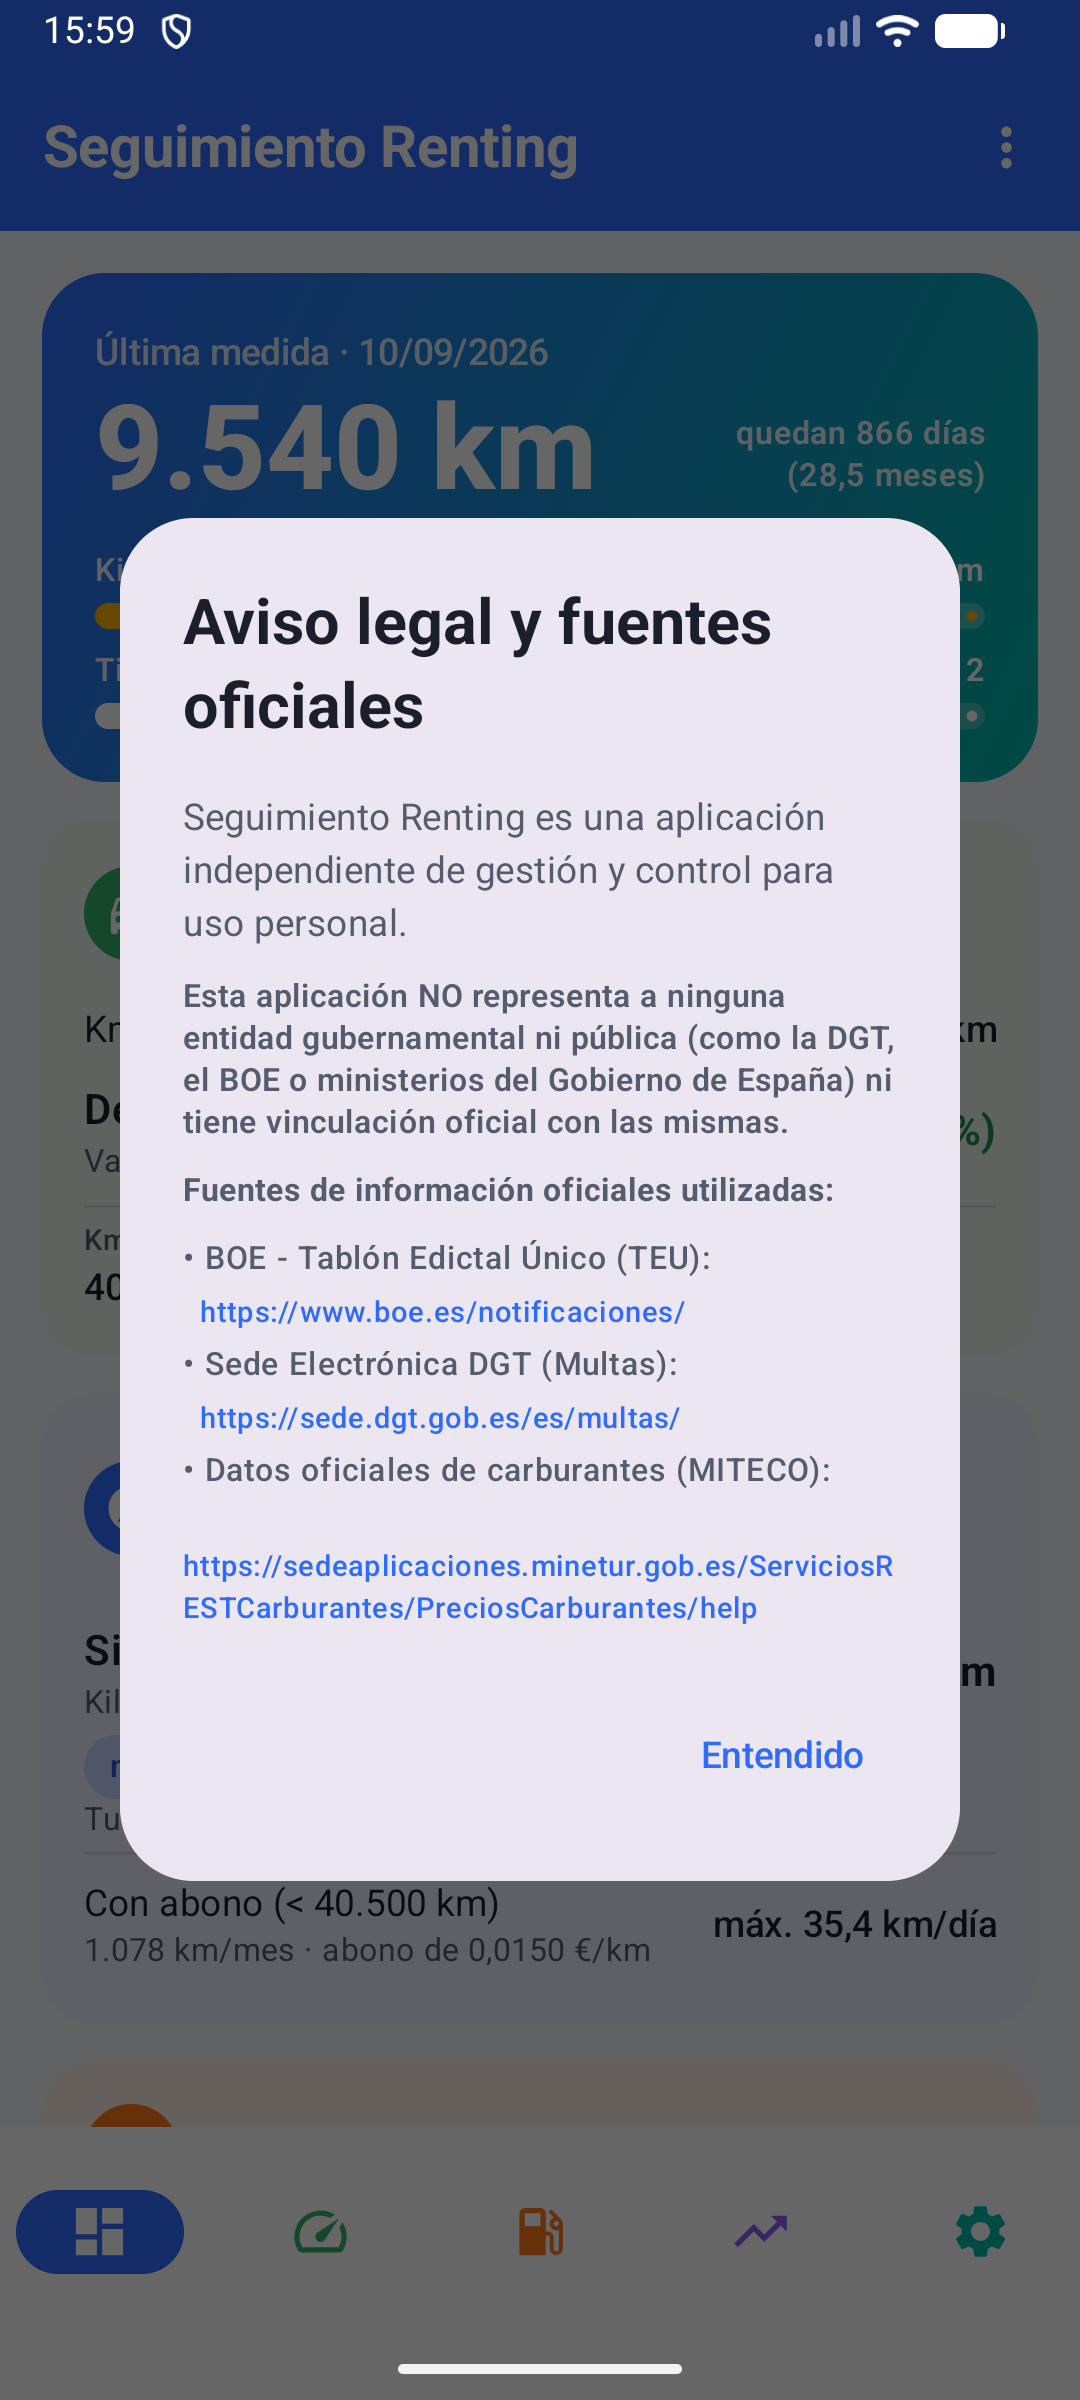
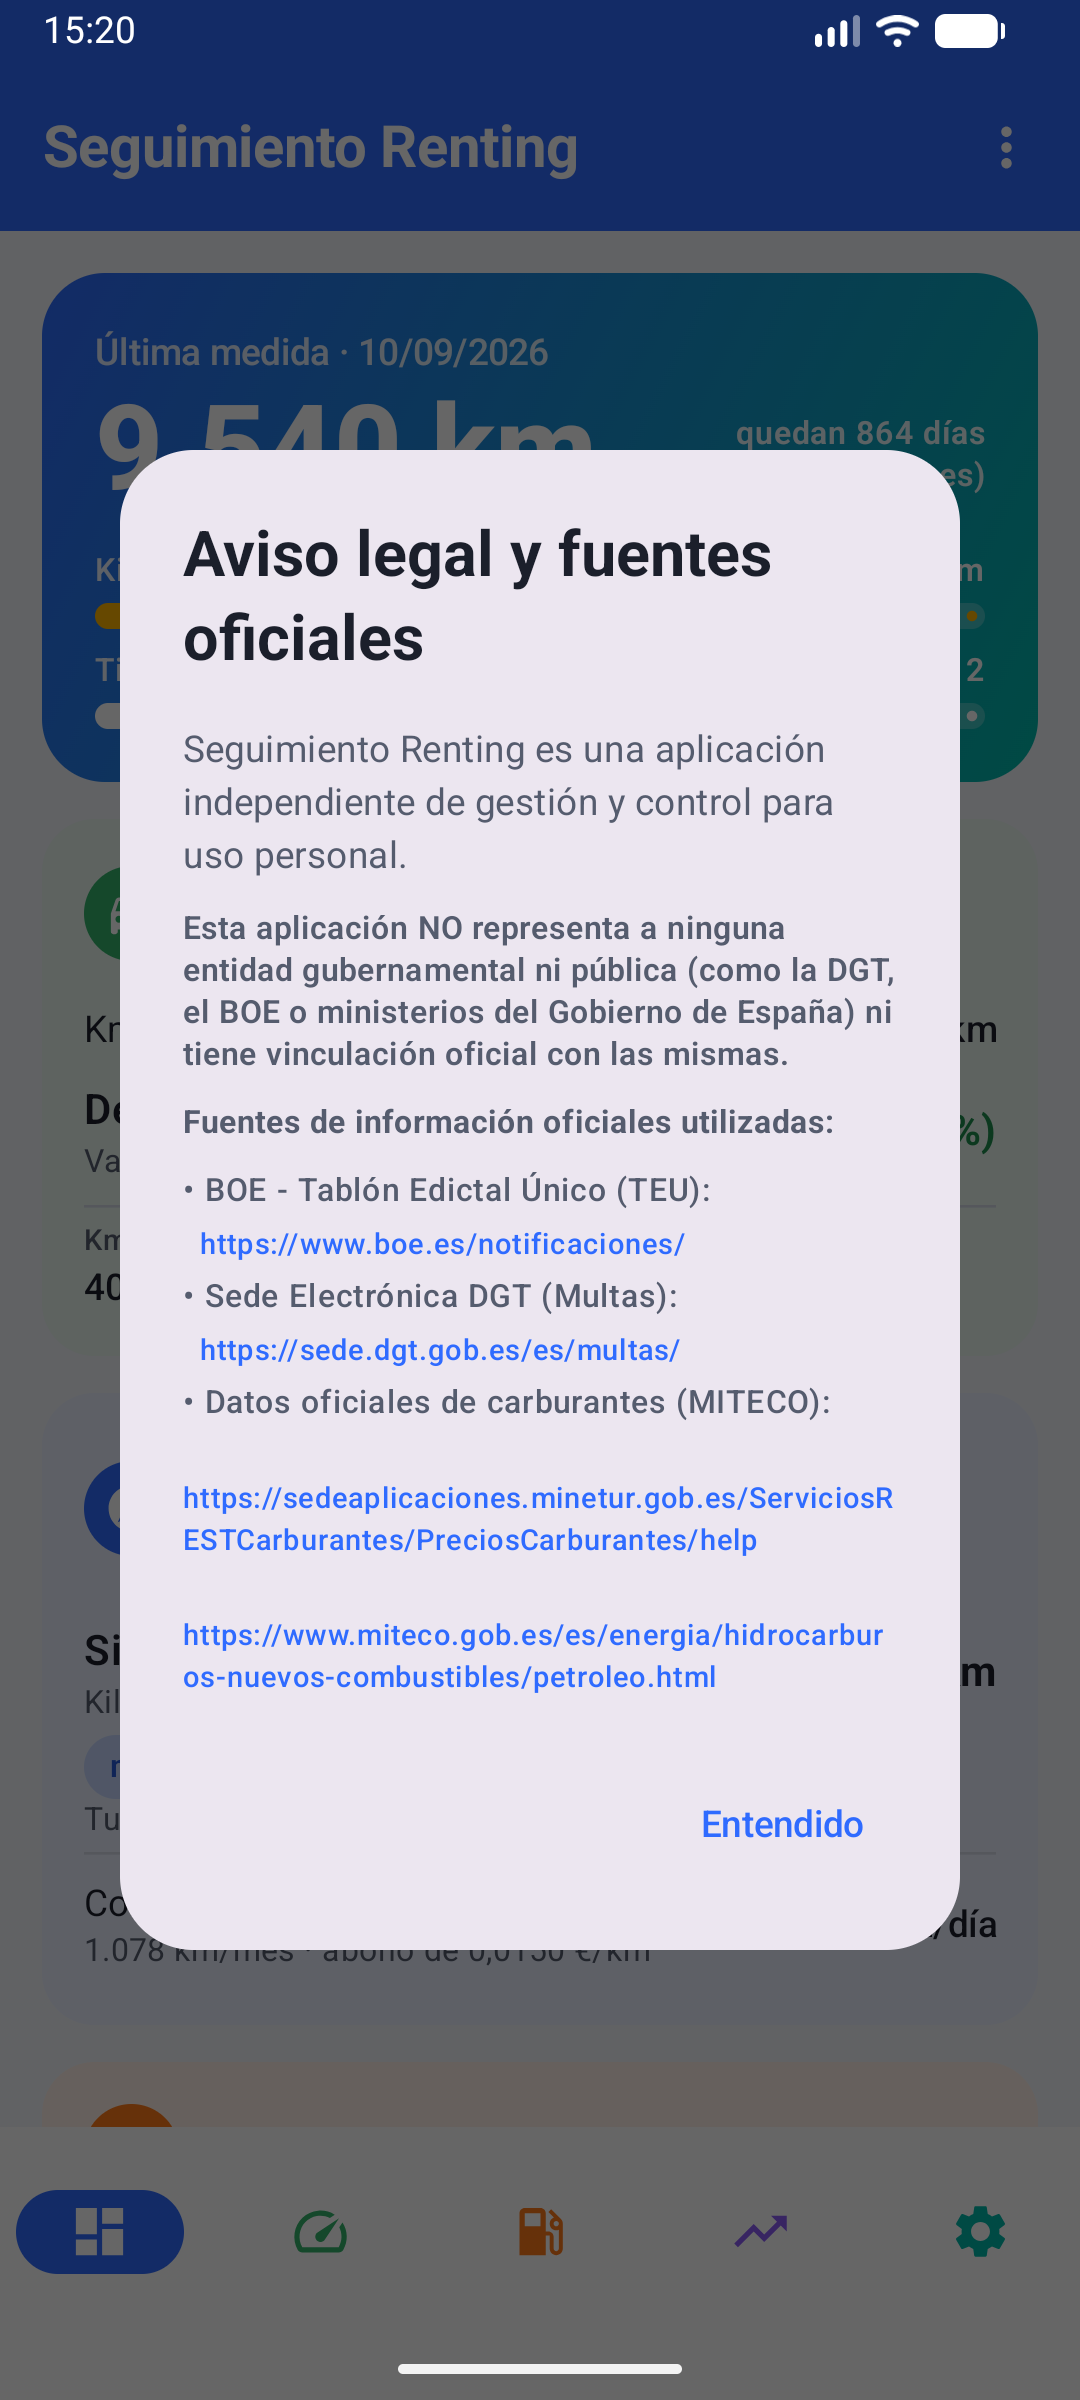
Versión 1.2.4: manual y capturas actualizados; el manual lee la versión del build.gradle.kts

diff --git a/docs/index.html b/docs/index.html
@@ -76,7 +76,7 @@
         </a>
         <a class="btn pdf" href="https://github.com/manursan2026/seguimiento-renting/releases/latest/download/Manual_Seguimiento_Renting.pdf" download>
           <svg viewBox="0 0 24 24" fill="currentColor"><path d="M14 2H6a2 2 0 0 0-2 2v16a2 2 0 0 0 2 2h12a2 2 0 0 0 2-2V8l-6-6zm-1 7V3.5L18.5 9H13zM8 13h8v2H8v-2zm0 4h8v2H8v-2z"/></svg>
-          <span>Manual de usuario<small>PDF · 4.3 MB</small></span>
+          <span>Manual de usuario<small>PDF · 4.4 MB</small></span>
         </a>
       </div>
     </div>
@@ -152,7 +152,7 @@
     </div>
     <div class="card">
       <h3><i style="background:var(--azul)">📘</i>Manual de usuario</h3>
-      <p>Guía completa con capturas de todas las pantallas · PDF · 4.3 MB</p>
+      <p>Guía completa con capturas de todas las pantallas · PDF · 4.4 MB</p>
       <a class="btn pdf" href="https://github.com/manursan2026/seguimiento-renting/releases/latest/download/Manual_Seguimiento_Renting.pdf" download>Descargar manual (PDF)</a>
     </div>
   </div>

diff --git a/docs_manual.py b/docs_manual.py
@@ -15,6 +15,9 @@ from PIL import Image as PILImage
 
 S = os.path.dirname(os.path.abspath(__file__))
 M = os.path.join(S, "manual")
+# Versión de la app, leída del build.gradle.kts
+import re
+VERSION = re.search(r'versionName = "([^"]+)"', open(os.path.join(S, "app", "build.gradle.kts")).read()).group(1)
 OUT = "/Users/manursan/Documents/PERSONALES/RENTING_PEUGEOT/Manual_Seguimiento_Renting.pdf"
 
 F = "/System/Library/Fonts/Supplemental/"
@@ -118,7 +121,7 @@ class Doc(BaseDocTemplate):
         canv.line(doc.leftMargin, A4[1] - 1.5*cm, A4[0] - doc.rightMargin, A4[1] - 1.5*cm)
         canv.setFont("Arial", 8); canv.setFillColor(GRIS)
         canv.drawString(doc.leftMargin, A4[1] - 1.35*cm, "Seguimiento Renting · Manual de usuario")
-        canv.drawRightString(A4[0] - doc.rightMargin, A4[1] - 1.35*cm, "Versión 1.2.3 · %s" % datetime.date.today().strftime("%d/%m/%Y"))
+        canv.drawRightString(A4[0] - doc.rightMargin, A4[1] - 1.35*cm, "Versión %s · %s" % (VERSION, datetime.date.today().strftime("%d/%m/%Y")))
         canv.drawCentredString(A4[0] / 2, 1.2*cm, str(doc.page))
         canv.restoreState()
     def afterFlowable(self, fl):
@@ -142,7 +145,7 @@ story += [Spacer(1, 2.2*cm), P("Seguimiento Renting", "title"), Spacer(1, 0.3*cm
 cover_tbl = Table([[shot("01_resumen_1", 4.4*cm), shot("30_proy_1", 4.4*cm), shot("20_rep_lista", 4.4*cm)]], colWidths=[5.2*cm]*3, hAlign="CENTER")
 cover_tbl.setStyle(TableStyle([("ALIGN", (0, 0), (-1, -1), "CENTER")]))
 story += [cover_tbl, Spacer(1, 0.8*cm),
-          Paragraph("Versión 1.2.3 · %s · Todas las capturas de este manual usan datos ficticios de ejemplo." % datetime.date.today().strftime("%B %Y").capitalize(), st["cap"])]
+          Paragraph("Versión %s · %s · Todas las capturas de este manual usan datos ficticios de ejemplo." % (VERSION, datetime.date.today().strftime("%B %Y").capitalize()), st["cap"])]
 
 # ---------- Índice ----------
 toc = TableOfContents(); toc.levelStyles = [st["toc1"], st["toc2"]]; toc.dotsMinLevel = 0
